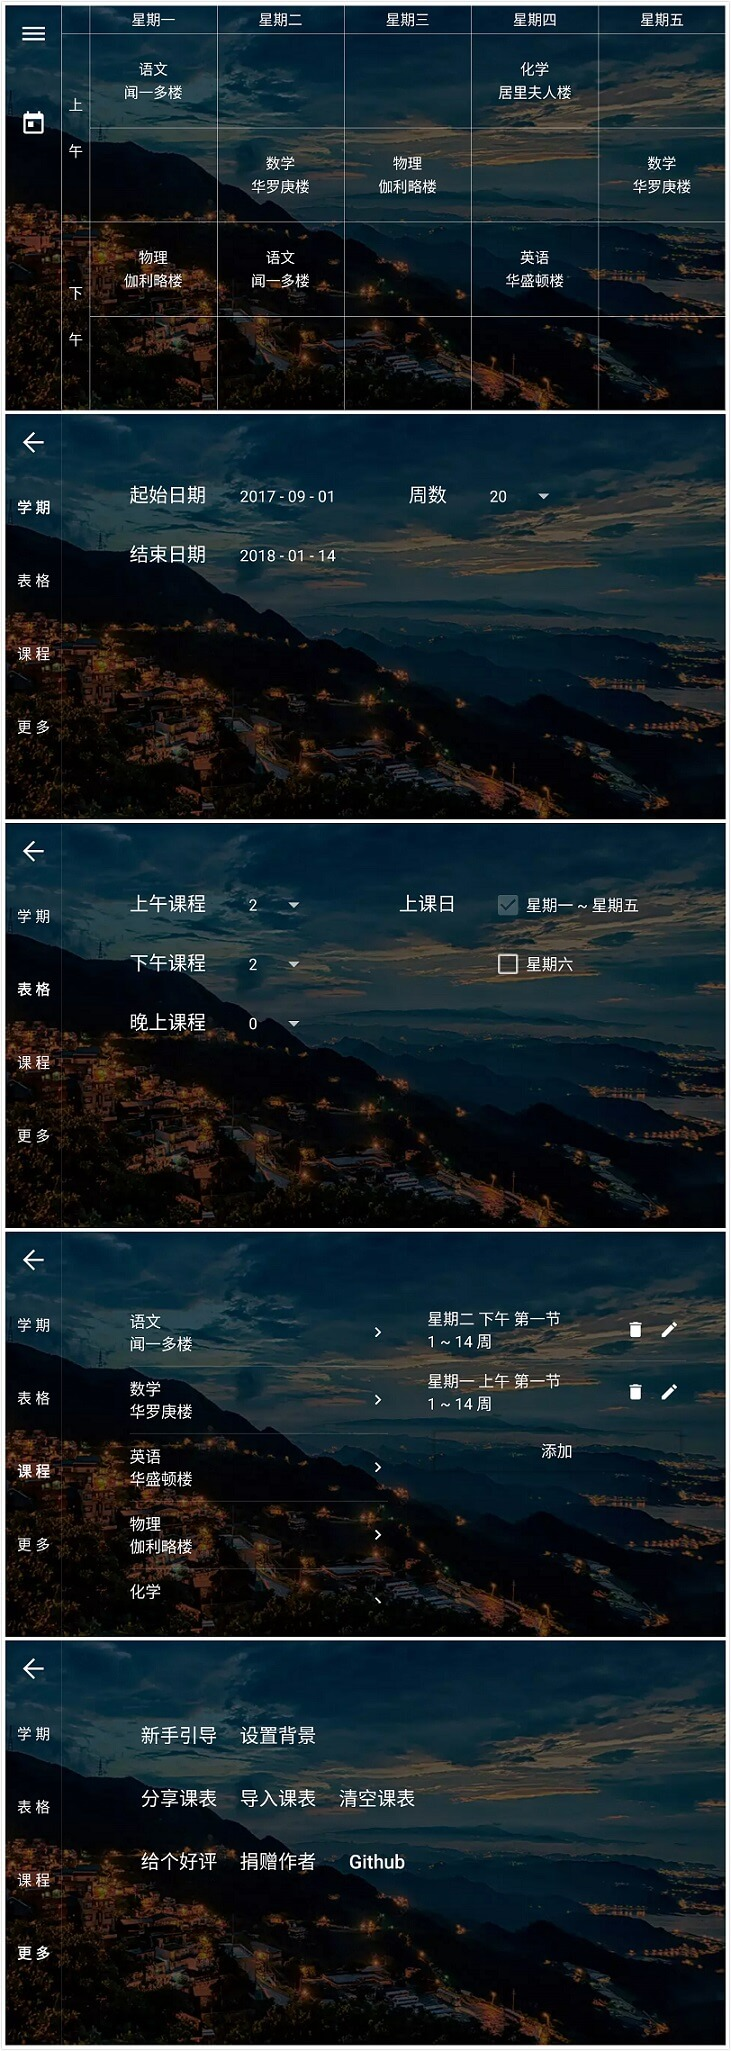
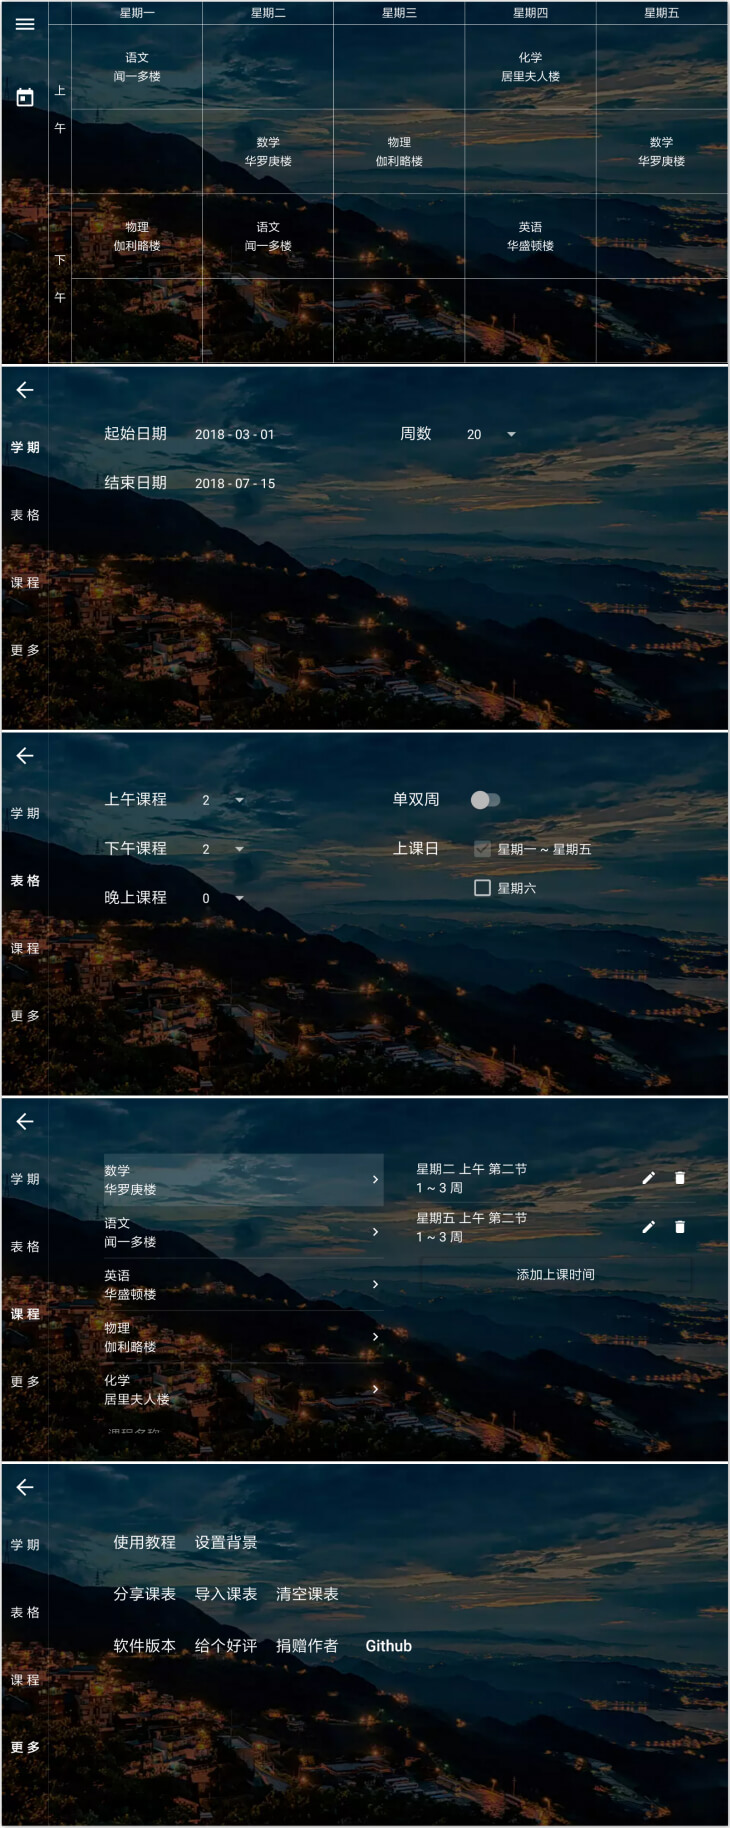
update

diff --git a/README.md b/README.md
@@ -14,9 +14,9 @@
 ![](/images/test_course.jpg)
 
 ## TODO
-- [ ] 使用教程
+- [X] 使用教程
 - [ ] 桌面小部件
-- [ ] 支持单双周
+- [X] 支持单双周
 - [ ] 将所有数据库操作转移至子线程
 
 ## LIB
